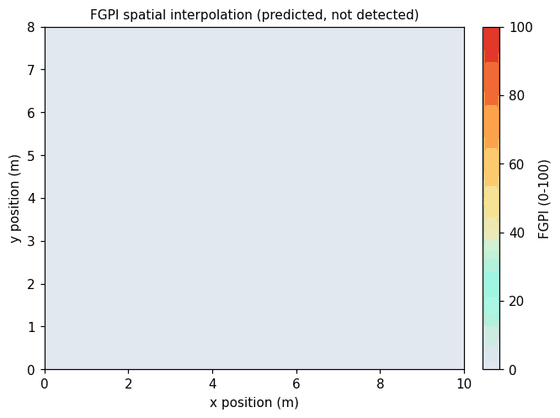
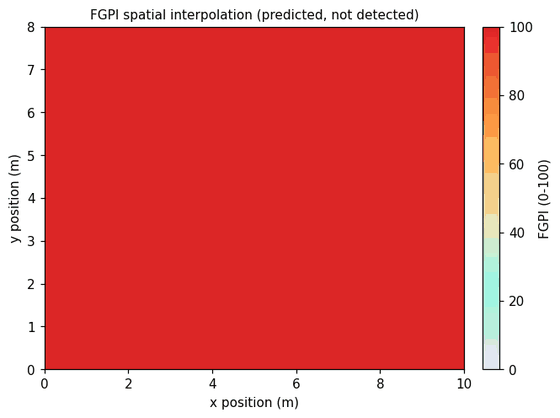
Fix OOB timestamp duplication and keep heatmap failures non-fatal

diff --git a/app/templates/partials/cards.html b/app/templates/partials/cards.html
@@ -1,5 +1,5 @@
 {% set d = latest %}
-<span id="updated" hx-swap-oob="true">{{ updated }}</span>
+{% if oob %}<span id="updated" hx-swap-oob="true">{{ updated }}</span>{% endif %}
 <div class="grid grid-cols-2 lg:grid-cols-4 gap-4">
   <article class="rounded-2xl shadow-sm bg-white p-4 ring-2 ring-slate-200">
     <div class="flex items-center justify-between">

diff --git a/app/server.py b/app/server.py
@@ -217,7 +217,9 @@ def create_app(config_path: str | None = None) -> Flask:
 
     @app.get("/partials/cards")
     def partial_cards():
-        return render_template("partials/cards.html", **_template_context())
+        # oob=True adds the header timestamp as an out-of-band swap. The
+        # initial server-rendered include must not emit a second #updated.
+        return render_template("partials/cards.html", oob=True, **_template_context())
 
     @app.get("/partials/species")
     def partial_species():
@@ -269,7 +271,15 @@ def create_app(config_path: str | None = None) -> Flask:
 
     @app.get("/heatmap.png")
     def heatmap_png():
-        path = _ensure_heatmap()
+        try:
+            path = _ensure_heatmap()
+        except Exception:
+            # A map failure must not take the dashboard down; serve the last
+            # good PNG if we have one, otherwise a clear 503.
+            log.exception("heatmap generation failed")
+            if not heatmap_path.exists():
+                abort(503)
+            path = heatmap_path
         response = send_file(path, mimetype="image/png", conditional=True)
         response.headers["Cache-Control"] = "no-store, max-age=0"
         return response
